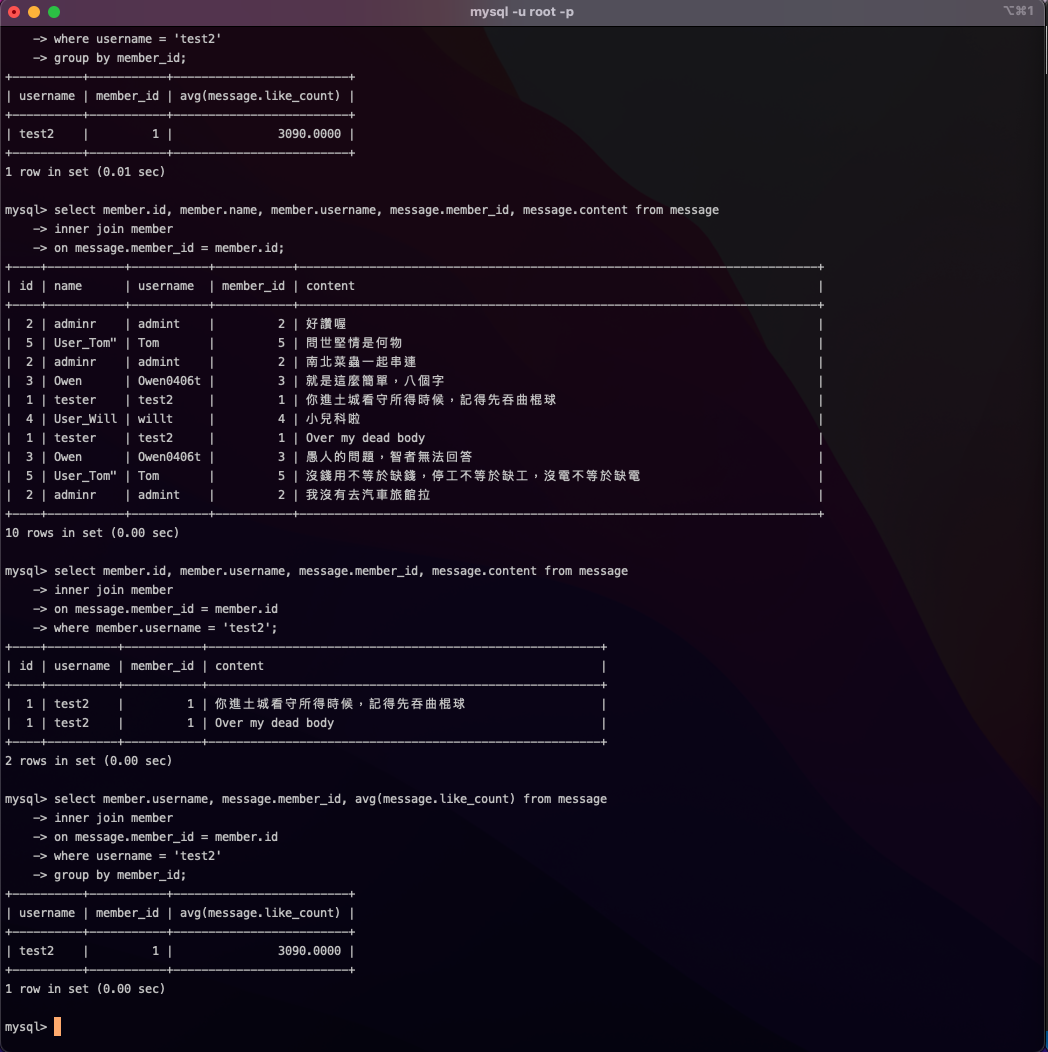
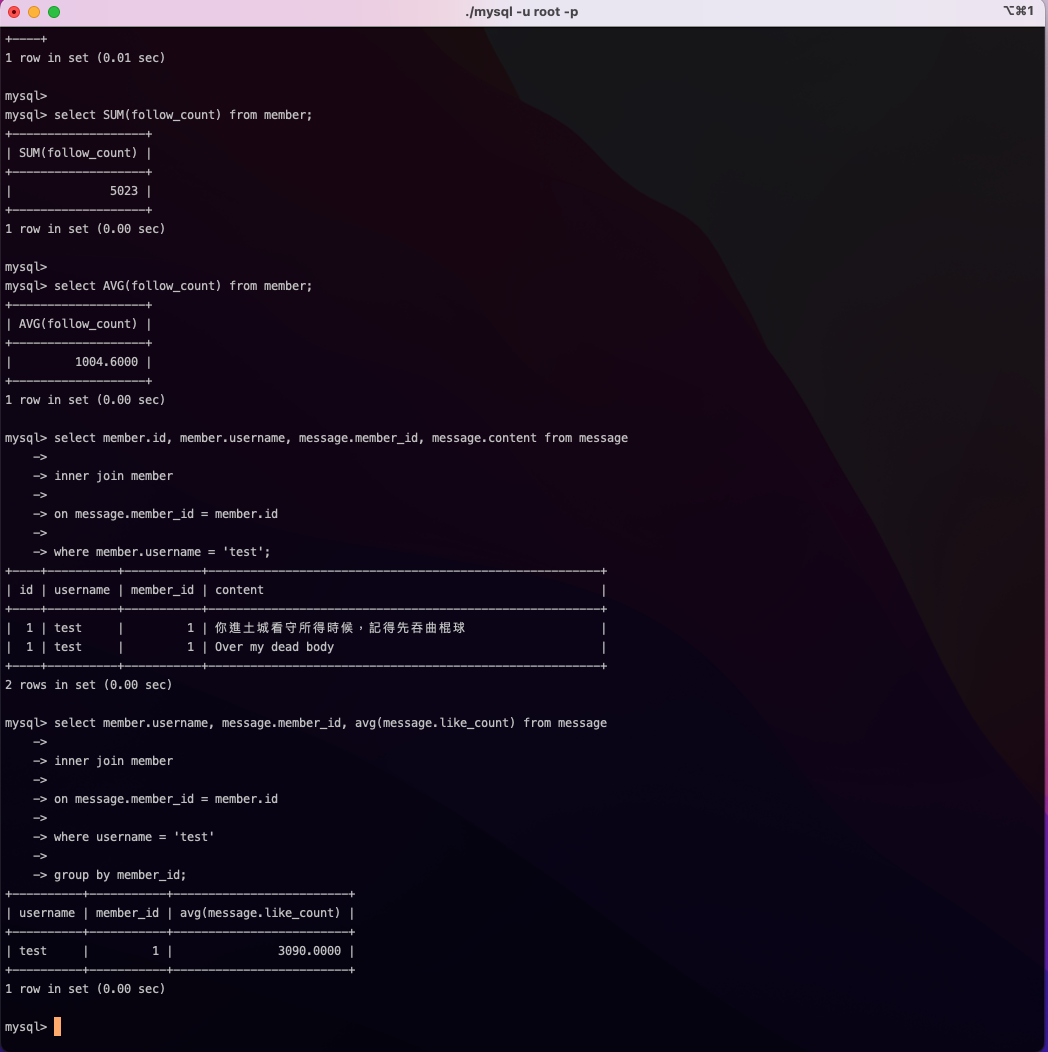
fix some error Week5 7th version

Changed region(s): [[0.0, 0.0, 1.0, 1.0], [0.0611, 0.7605, 0.2443, 0.8213], [0.2443, 0.73, 0.3053, 0.7605]]

diff --git a/Practice/Week5/README.md b/Practice/Week5/README.md
@@ -22,14 +22,16 @@ select * from member;
 
 select * from member order by time desc;
 
+select * from member order by time desc limit 2,4;
+
 select * from member where username = 'test';
 
 select * from member where username = 'test' and password = 'test';
 
-select * from member where username = 'test2';
+select * from member where username = 'test';
 
-update member set username = 'test2' where id = 1;
-
+update member set name = 'tes2' where username = 'test';
+![需求3 update語法](https://github.com/owenfang0406/owenfang0406.github.io/blob/main/Practice/Week5/2 update syntax.png)
 ---
 >需求4 計算資料
 ---
@@ -95,7 +97,7 @@ on message.member_id = member.id;
 ---
 ![需求5](https://github.com/owenfang0406/owenfang0406.github.io/blob/main/Practice/Week5/5.png)
 ---
->配合 join 顯示 username = 'test2' 由於先前需求 username test update成 test2
+>配合 join 顯示 username = 'test'
 
 select member.id, member.username, message.member_id, message.content from message
 
@@ -103,9 +105,9 @@ inner join member
 
 on message.member_id = member.id
 
-where member.username = 'test2';
+where member.username = 'test';
 
->配合 join 查詢出 username = test2 且 按讚數平均值
+>配合 join 查詢出 username = test 且 按讚數平均值
 
 select member.username, message.member_id, avg(message.like_count) from message
 
@@ -113,6 +115,6 @@ inner join member
 
 on message.member_id = member.id
 
-where username = 'test2'
+where username = 'test'
 
 group by member_id;
